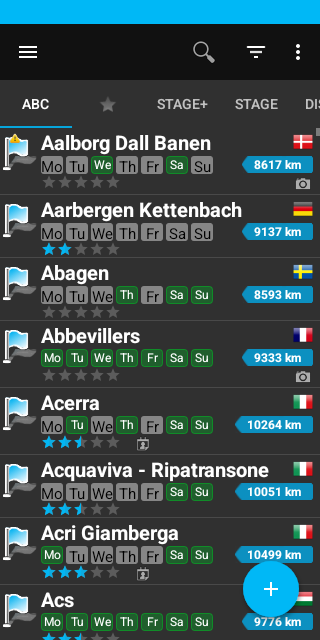
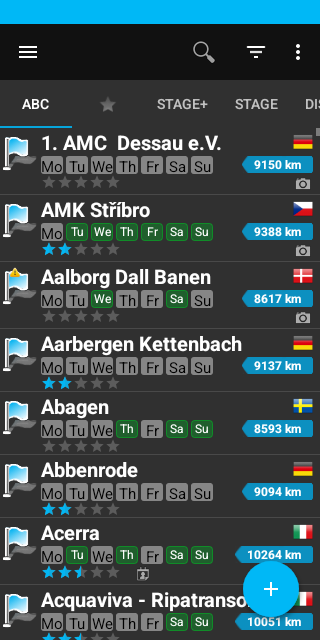
More list tests

diff --git a/MXApp/src/androidTest/java/info/mx/tracks/ActivityTrackListTest.kt b/MXApp/src/androidTest/java/info/mx/tracks/ActivityTrackListTest.kt
@@ -4,6 +4,8 @@ import android.Manifest
 import androidx.test.core.graphics.writeToTestStorage
 import androidx.test.espresso.Espresso
 import androidx.test.espresso.Espresso.onView
+import androidx.test.espresso.action.ViewActions
+import androidx.test.espresso.matcher.ViewMatchers
 import androidx.test.espresso.matcher.ViewMatchers.isRoot
 import androidx.test.espresso.screenshot.captureToBitmap
 import androidx.test.ext.junit.rules.activityScenarioRule
@@ -31,7 +33,18 @@ class ActivityTrackListTest : BaseSyncTest() {
         // This is the first time settings activity with always changed version number
         //onView(isRoot()).captureToBitmap().writeToTestStorage("${javaClass.simpleName}_${nameRule.methodName}-1")
         Espresso.pressBack()
-        onView(isRoot()).captureToBitmap().writeToTestStorage("${javaClass.simpleName}_${nameRule.methodName}-2")
+        onView(isRoot()).captureToBitmap().writeToTestStorage("${javaClass.simpleName}_${nameRule.methodName}-init")
+        onView(ViewMatchers.withId(R.id.list_overview)).perform(ViewActions.swipeDown())
+        onView(isRoot()).captureToBitmap().writeToTestStorage("${javaClass.simpleName}_${nameRule.methodName}-down1")
+        onView(ViewMatchers.withId(R.id.list_overview)).perform(ViewActions.swipeDown())
+        onView(isRoot()).captureToBitmap().writeToTestStorage("${javaClass.simpleName}_${nameRule.methodName}-down2")
+
+        onView(ViewMatchers.withId(R.id.list_overview)).perform(ViewActions.swipeUp())
+        onView(ViewMatchers.withId(R.id.list_overview)).perform(ViewActions.swipeUp())
+        onView(isRoot()).captureToBitmap().writeToTestStorage("${javaClass.simpleName}_${nameRule.methodName}-up1")
+        onView(ViewMatchers.withId(R.id.list_overview)).perform(ViewActions.swipeDown())
+        onView(isRoot()).captureToBitmap().writeToTestStorage("${javaClass.simpleName}_${nameRule.methodName}-up2")
+
     }
 
 }
